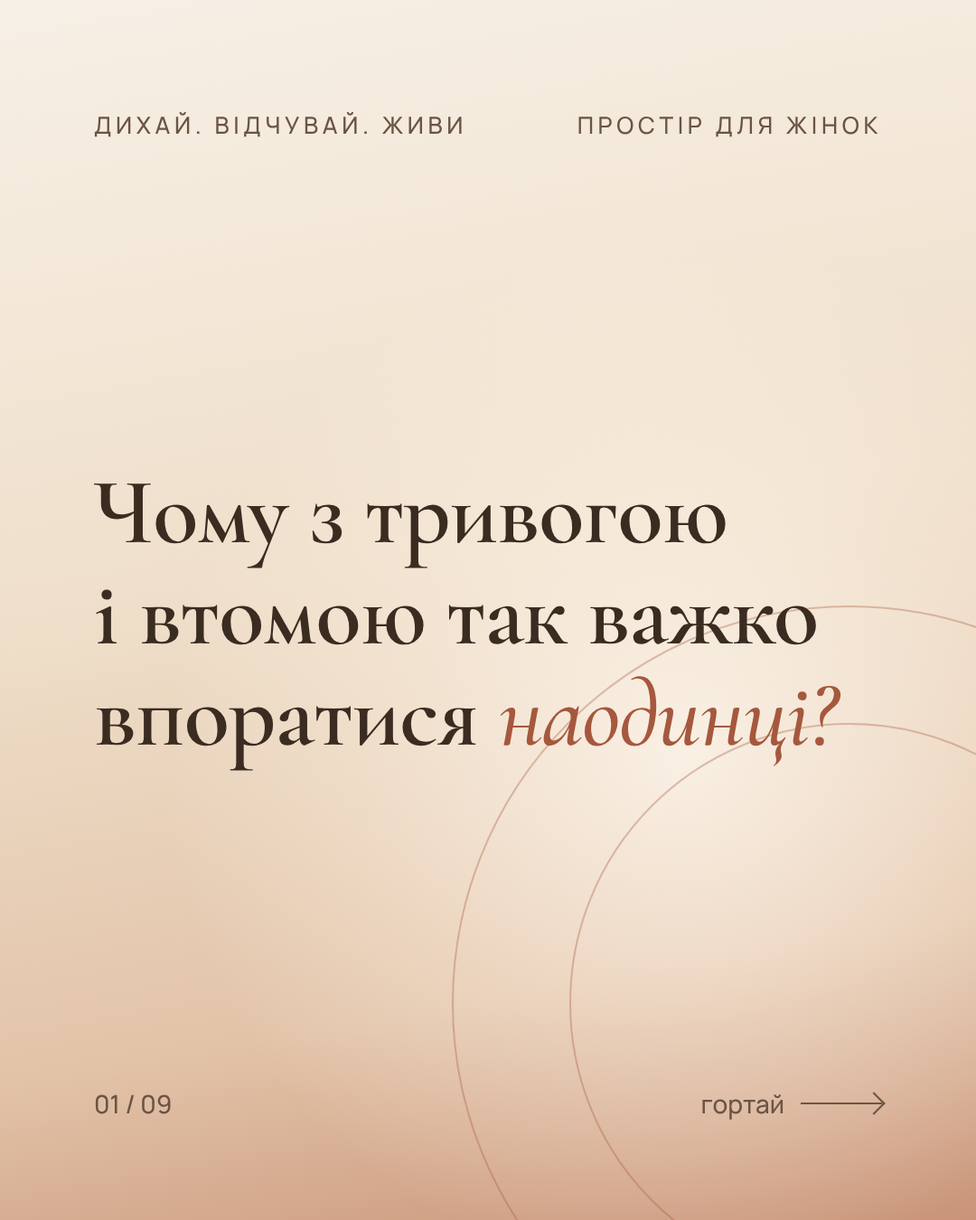
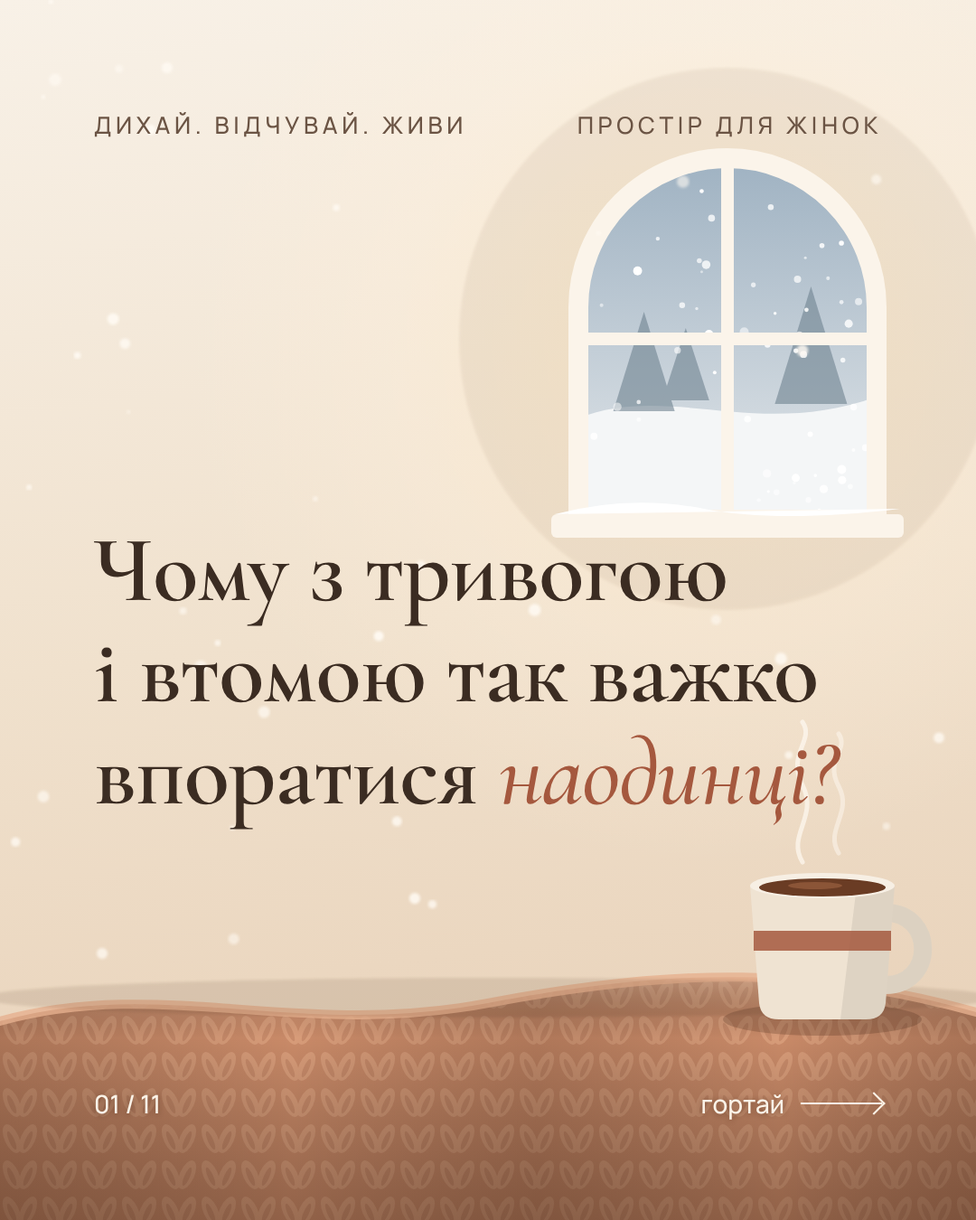
Carousel: cozy illustrated backgrounds, add 'how we work' and methods slides (11 slides)
Claude-Session: https://claude.ai/code/session_01Ybrem4L8V91CpdmvQtLtua

diff --git a/reels/carousel/carousel.html b/reels/carousel/carousel.html
@@ -2,145 +2,173 @@
 <html lang="uk"><head><meta charset="utf-8">
 <link href="https://fonts.googleapis.com/css2?family=Cormorant+Garamond:ital,wght@0,500;0,600;1,500&family=Manrope:wght@400;500;600&display=swap&subset=cyrillic" rel="stylesheet">
 <style>
-:root{--ink:#3b2c22;--soft:#6b5444;--terra:#a5583e;--milk:#f7f0e6;--olive:#5f6140}
+:root{--ink:#3b2c22;--soft:#6b5444;--terra:#a5583e;--milk:#f7f0e6}
 *{box-sizing:border-box;margin:0;padding:0}
 body{background:#ccc;font-family:Manrope,sans-serif;color:var(--ink)}
 .s{width:1080px;height:1350px;position:relative;overflow:hidden;margin-bottom:20px;
-  background:linear-gradient(170deg,#f7f0e6 0%,#efdfca 45%,#e2c3a8 78%,#c99478 100%);
+  background:linear-gradient(172deg,#f8f1e7 0%,#f0e1cd 50%,#e6cdb3 100%);
   padding:120px 104px 110px;display:flex;flex-direction:column}
 .s.dark{background:linear-gradient(165deg,#6a4a3a 0%,#4a3428 55%,#33241a 100%);color:var(--milk)}
-.s::before{content:"";position:absolute;width:1200px;height:1200px;border-radius:50%;
-  left:var(--cx,50%);top:var(--cy,40%);transform:translate(-50%,-50%);
-  background:radial-gradient(circle,rgba(255,250,242,.75) 0%,rgba(255,247,236,.3) 40%,rgba(255,245,232,0) 68%)}
-.s.dark::before{background:radial-gradient(circle,rgba(224,168,110,.22) 0%,rgba(224,168,110,0) 62%)}
-.ring{position:absolute;border:2px solid rgba(165,88,62,.35);border-radius:50%;pointer-events:none}
-.dark .ring{border-color:rgba(241,220,198,.25)}
-.s>*:not(.ring){position:relative;z-index:1}
-.ring{z-index:0}
+.glow{position:absolute;width:1200px;height:1200px;border-radius:50%;transform:translate(-50%,-50%);
+  background:radial-gradient(circle,rgba(255,236,205,.8) 0%,rgba(255,240,220,.3) 40%,rgba(255,245,232,0) 68%)}
+.dark .glow{background:radial-gradient(circle,rgba(240,170,100,.28) 0%,rgba(224,168,110,0) 62%)}
+.layer{position:absolute;inset:0;pointer-events:none}
+.top,.body,.bot{position:relative;z-index:5}
 .top{display:flex;justify-content:space-between;font-size:26px;letter-spacing:.18em;text-transform:uppercase;color:var(--soft);font-weight:500}
 .dark .top{color:#dcb79c}
 .body{flex:1;display:flex;flex-direction:column;justify-content:center}
 .serif{font-family:"Cormorant Garamond",serif;font-weight:600;line-height:1.08;letter-spacing:-.01em}
-h1{font-size:104px}
-h2{font-size:84px}
+h1{font-size:104px} h2{font-size:84px}
 em{font-style:italic;font-weight:500;color:var(--terra)}
 .dark em{color:#e0a86e}
-p{font-size:40px;line-height:1.45;color:var(--soft);font-weight:400}
+p{font-size:40px;line-height:1.45;color:var(--soft)}
 .dark p{color:#efdfca}
-.num{font-family:"Cormorant Garamond",serif;font-size:200px;line-height:1;color:var(--terra);font-weight:500;font-style:italic;opacity:.85;margin-bottom:24px}
-.bot{display:flex;justify-content:space-between;align-items:center;font-size:28px;color:var(--soft);font-weight:500}
-.dark .bot{color:#dcb79c}
+.num{font-family:"Cormorant Garamond",serif;font-size:170px;line-height:1;color:var(--terra);font-weight:500;font-style:italic;opacity:.85;margin-bottom:18px}
+.bot{display:flex;justify-content:space-between;align-items:center;font-size:28px;font-weight:500;color:#fbf3e8;text-shadow:0 1px 6px rgba(60,30,15,.45)}
 .arrow{display:flex;align-items:center;gap:18px}
 .arrow i{display:block;width:90px;height:2px;background:currentColor;position:relative}
 .arrow i::after{content:"";position:absolute;right:0;top:-8px;width:16px;height:16px;border-top:2px solid currentColor;border-right:2px solid currentColor;transform:rotate(45deg)}
-.list{list-style:none;margin-top:56px}
-.list li{display:flex;justify-content:space-between;align-items:baseline;gap:30px;padding:30px 0;border-top:1.5px solid rgba(59,44,34,.2);font-size:38px}
+.list{list-style:none;margin-top:44px}
+.list li{display:flex;justify-content:space-between;align-items:baseline;gap:30px;padding:26px 0;border-top:1.5px solid rgba(59,44,34,.2);font-size:38px}
 .list li:last-child{border-bottom:1.5px solid rgba(59,44,34,.2)}
-.list b{font-weight:600}
-.list span{color:var(--soft);text-align:right}
-.price{font-family:"Cormorant Garamond",serif;font-size:64px;font-weight:600;color:var(--terra)}
-.date{display:flex;gap:40px;align-items:center;margin:60px 0 50px}
+.list b{font-weight:600} .list span{color:var(--soft);text-align:right}
+.price{font-family:"Cormorant Garamond",serif;font-size:60px;font-weight:600;color:var(--terra)}
+.methods{list-style:none;margin-top:44px;display:flex;flex-direction:column;gap:22px}
+.methods li{font-size:40px;line-height:1.3;display:flex;gap:26px;align-items:baseline}
+.methods li::before{content:"";flex:none;width:18px;height:18px;border-radius:50%;border:2px solid var(--terra);transform:translateY(-4px)}
+.date{display:flex;gap:40px;align-items:center;margin:48px 0 40px}
 .date .d{font-family:"Cormorant Garamond",serif;font-size:220px;line-height:.85;color:#e0a86e;font-weight:500}
 .date .m{font-size:40px;line-height:1.4;color:#f1dcc6}
-.btn{align-self:flex-start;margin-top:56px;padding:30px 52px;border-radius:100px;background:#f1dcc6;color:#3b2c22;font-size:34px;font-weight:600}
-.small{font-size:30px;margin-top:28px;opacity:.8}
-.line{width:120px;height:2px;background:var(--terra);margin:48px 0}
+.btn{align-self:flex-start;margin-top:48px;padding:30px 52px;border-radius:100px;background:#f1dcc6;color:#3b2c22;font-size:34px;font-weight:600}
+.line{width:120px;height:2px;background:var(--terra);margin:40px 0}
 .dark .line{background:#e0a86e}
+.pb{padding-bottom:210px}
 </style></head><body>
 
 <!-- 1 -->
-<section class="s" style="--cx:70%;--cy:62%">
-  <div class="ring" style="width:880px;height:880px;right:-300px;bottom:-200px"></div>
-  <div class="ring" style="width:620px;height:620px;right:-170px;bottom:-70px"></div>
+<section class="s" data-snow="40" data-blanket data-mug="830">
+  <div class="glow" style="left:72%;top:28%"></div>
+  <div class="layer" data-window="640,175,330,400"></div>
   <div class="top"><span>Дихай. Відчувай. Живи</span><span>простір для жінок</span></div>
-  <div class="body">
+  <div class="body pb" style="justify-content:flex-end;padding-bottom:290px">
     <h1 class="serif">Чому з тривогою і&nbsp;втомою так важко впоратися <em>наодинці?</em></h1>
   </div>
-  <div class="bot"><span>01 / 09</span><span class="arrow">гортай <i></i></span></div>
+  <div class="bot"><span>01 / 11</span><span class="arrow">гортай <i></i></span></div>
 </section>
 
 <!-- 2 -->
-<section class="s" style="--cx:30%;--cy:45%">
-  <div class="ring" style="width:700px;height:700px;left:-330px;top:180px"></div>
+<section class="s" data-snow="60" data-blanket data-candle="820">
+  <div class="glow" style="left:25%;top:45%"></div>
   <div class="top"><span>Замкнене коло</span><span></span></div>
-  <div class="body">
+  <div class="body pb">
     <h2 class="serif">Бо коли ти одна&nbsp;— ти варишся у&nbsp;власних думках, як <em>у&nbsp;замкненому колі.</em></h2>
     <div class="line"></div>
     <p>Навіть якщо йдеш до фахівця раз на&nbsp;тиждень, решту часу все одно тримаєш усе&nbsp;сама.</p>
   </div>
-  <div class="bot"><span>02 / 09</span><span class="arrow"><i></i></span></div>
+  <div class="bot"><span>02 / 11</span><span class="arrow"><i></i></span></div>
 </section>
 
 <!-- 3 -->
-<section class="s dark" style="--cx:50%;--cy:50%">
-  <div class="ring" style="width:1000px;height:1000px;left:40px;top:175px"></div>
-  <div class="ring" style="width:760px;height:760px;left:160px;top:295px"></div>
+<section class="s dark" data-snow="50" data-circle>
+  <div class="glow" style="left:50%;top:92%"></div>
   <div class="top"><span>Тому ми з колегою створюємо</span><span></span></div>
-  <div class="body">
+  <div class="body" style="justify-content:flex-start;padding-top:70px">
     <h1 class="serif">Дихай.<br>Відчувай.<br><em>Живи.</em></h1>
-    <p style="margin-top:44px;color:#f1dcc6;font-weight:500">Онлайн-група підтримки, відновлення, самопізнання та&nbsp;розвитку для&nbsp;жінок</p>
+    <p style="margin-top:40px;color:#f1dcc6;font-weight:500">Онлайн-група підтримки, відновлення, самопізнання та&nbsp;розвитку для&nbsp;жінок</p>
     <div class="line"></div>
     <p>Не лекції і не «розбір польотів», а&nbsp;живий простір, де працює <b style="color:#f1dcc6;font-weight:600">сила кола</b>.</p>
   </div>
-  <div class="bot"><span>03 / 09</span><span class="arrow">що дає група <i></i></span></div>
+  <div class="bot"><span>03 / 11</span><span class="arrow">що дає група <i></i></span></div>
 </section>
 
 <!-- 4 -->
-<section class="s" style="--cx:75%;--cy:30%">
-  <div class="ring" style="width:520px;height:520px;right:-160px;top:-120px"></div>
+<section class="s" data-snow="45" data-blanket data-mug="780">
+  <div class="glow" style="left:75%;top:30%"></div>
   <div class="top"><span>Що дає група</span><span>1 / 4</span></div>
-  <div class="body">
+  <div class="body pb">
     <div class="num">01</div>
     <h2 class="serif">Відчуття <em>«я&nbsp;не&nbsp;одна»</em></h2>
     <div class="line"></div>
     <p>Інші жінки стають твоїм живим дзеркалом. Ти&nbsp;слухаєш чужу історію&nbsp;— і&nbsp;раптом знаходиш відповідь на&nbsp;своє питання, яке боліло місяцями.</p>
   </div>
-  <div class="bot"><span>04 / 09</span><span class="arrow"><i></i></span></div>
+  <div class="bot"><span>04 / 11</span><span class="arrow"><i></i></span></div>
 </section>
 
 <!-- 5 -->
-<section class="s" style="--cx:25%;--cy:32%">
-  <div class="ring" style="width:520px;height:520px;left:-160px;top:-120px"></div>
+<section class="s" data-snow="45" data-blanket data-candle="160">
+  <div class="glow" style="left:25%;top:32%"></div>
   <div class="top"><span>Що дає група</span><span>2 / 4</span></div>
-  <div class="body">
+  <div class="body pb">
     <div class="num">02</div>
     <h2 class="serif">Спільна <em>енергія</em></h2>
     <div class="line"></div>
     <p>Коли власного ресурсу на нулі, група буквально дає опору. У&nbsp;колі легше дихати, глибше розслабляється тіло, і&nbsp;з’являються сили там, де їх не&nbsp;було.</p>
   </div>
-  <div class="bot"><span>05 / 09</span><span class="arrow"><i></i></span></div>
+  <div class="bot"><span>05 / 11</span><span class="arrow"><i></i></span></div>
 </section>
 
 <!-- 6 -->
-<section class="s" style="--cx:75%;--cy:30%">
-  <div class="ring" style="width:520px;height:520px;right:-160px;top:-120px"></div>
+<section class="s" data-snow="45" data-blanket data-mug="800">
+  <div class="glow" style="left:75%;top:30%"></div>
   <div class="top"><span>Що дає група</span><span>3 / 4</span></div>
-  <div class="body">
+  <div class="body pb">
     <div class="num">03</div>
     <h2 class="serif">Дозвіл спробувати <em>нове</em></h2>
     <div class="line"></div>
     <p>Вдома чи на роботі ми звикли бути зручними і стриманими. Тут можна вперше наважитися зазвучати на&nbsp;повний голос, випустити напругу через тіло, проявитися без страху «а&nbsp;що подумають».</p>
   </div>
-  <div class="bot"><span>06 / 09</span><span class="arrow"><i></i></span></div>
+  <div class="bot"><span>06 / 11</span><span class="arrow"><i></i></span></div>
 </section>
 
 <!-- 7 -->
-<section class="s" style="--cx:25%;--cy:32%">
-  <div class="ring" style="width:520px;height:520px;left:-160px;top:-120px"></div>
+<section class="s" data-snow="45" data-blanket data-mugs="700">
+  <div class="glow" style="left:25%;top:32%"></div>
   <div class="top"><span>Що дає група</span><span>4 / 4</span></div>
-  <div class="body">
+  <div class="body pb">
     <div class="num">04</div>
     <h2 class="serif">Теплий погляд <em>з&nbsp;боку</em></h2>
     <div class="line"></div>
     <p>Досвід різних жінок&nbsp;— в&nbsp;Україні та в&nbsp;еміграції. Без критики й&nbsp;непроханих порад «як треба». Ми, дві ведучі, бережно стежимо за безпекою кожного слова в&nbsp;просторі.</p>
   </div>
-  <div class="bot"><span>07 / 09</span><span class="arrow"><i></i></span></div>
+  <div class="bot"><span>07 / 11</span><span class="arrow"><i></i></span></div>
 </section>
 
 <!-- 8 -->
-<section class="s" style="--cx:50%;--cy:20%">
+<section class="s" data-snow="45" data-blanket data-candle="880">
+  <div class="glow" style="left:70%;top:30%"></div>
+  <div class="top"><span>Як ми працюємо</span><span></span></div>
+  <div class="body pb">
+    <h2 class="serif" style="font-size:76px">Саме <em>ви і ваші почуття</em> формують зміст наших зустрічей</h2>
+    <div class="line"></div>
+    <p>Питання, труднощі, внутрішні конфлікти, страхи, сумніви, стосунки та життєві ситуації&nbsp;— те, що хвилює тут і&nbsp;зараз.</p>
+    <p style="margin-top:28px;color:var(--ink);font-weight:500">Те, що болить, турбує або потребує розуміння,&nbsp;— стає темою нашої спільної роботи.</p>
+  </div>
+  <div class="bot"><span>08 / 11</span><span class="arrow"><i></i></span></div>
+</section>
+
+<!-- 9 -->
+<section class="s" data-snow="45" data-blanket data-mug="810">
+  <div class="glow" style="left:30%;top:30%"></div>
+  <div class="top"><span>Як ми працюємо</span><span></span></div>
+  <div class="body pb">
+    <h2 class="serif">На вас <em>чекають</em></h2>
+    <ul class="methods">
+      <li>групова робота</li>
+      <li>психологічні сесії</li>
+      <li>розстановки</li>
+      <li>арт-терапія</li>
+      <li>метафоричні асоціативні карти</li>
+      <li>тілесні вправи та робота з&nbsp;тілом</li>
+    </ul>
+  </div>
+  <div class="bot"><span>09 / 11</span><span class="arrow"><i></i></span></div>
+</section>
+
+<!-- 10 -->
+<section class="s" data-snow="40" data-blanket>
+  <div class="glow" style="left:50%;top:20%"></div>
   <div class="top"><span>Як усе влаштовано</span><span></span></div>
-  <div class="body">
+  <div class="body pb">
     <h2 class="serif">Формат <em>групи</em></h2>
     <ul class="list">
       <li><b>Зустрічі</b><span>2 рази на місяць</span></li>
@@ -150,21 +178,149 @@ p{font-size:40px;line-height:1.45;color:var(--soft);font-weight:400}
       <li><b>Місяць</b><span class="price">3 000 грн / 60 €</span></li>
     </ul>
   </div>
-  <div class="bot"><span>08 / 09</span><span class="arrow"><i></i></span></div>
+  <div class="bot"><span>10 / 11</span><span class="arrow"><i></i></span></div>
 </section>
 
-<!-- 9 -->
-<section class="s dark" style="--cx:60%;--cy:45%">
-  <div class="ring" style="width:900px;height:900px;right:-260px;top:100px"></div>
-  <div class="ring" style="width:640px;height:640px;right:-130px;top:230px"></div>
+<!-- 11 -->
+<section class="s dark" data-snow="70" data-blanket="dark" data-mugs="640">
+  <div class="glow" style="left:70%;top:30%"></div>
   <div class="top"><span>Дихай. Відчувай. Живи</span><span>запрошення</span></div>
-  <div class="body">
+  <div class="body pb">
     <h2 class="serif">Відкритий ефір <em>знайомства</em></h2>
     <div class="date"><div class="d">18</div><div class="m">грудня<br>19:00 за Києвом<br>Zoom</div></div>
     <p>Приходь, щоб відчути енергію кола на&nbsp;собі.</p>
     <div class="btn">Напиши «КОЛО» в дірект</div>
-    <p class="small">— і я надішлю посилання на ефір</p>
   </div>
-  <div class="bot"><span>09 / 09</span><span>збережи, щоб не загубити</span></div>
+  <div class="bot"><span>11 / 11</span><span>збережи, щоб не загубити</span></div>
 </section>
+
+<script>
+let seed=7;const rnd=()=>{seed=(seed*16807)%2147483647;return (seed-1)/2147483646};
+const W=1080,H=1350,BT=1110; // blanket top
+const NS='http://www.w3.org/2000/svg';
+function svg(inner,z=1){const d=document.createElement('div');d.className='layer';d.style.zIndex=z;
+  d.innerHTML=`<svg width="${W}" height="${H}" viewBox="0 0 ${W} ${H}" xmlns="${NS}">${inner}</svg>`;return d}
+
+function snow(n,dark){let o='';for(let i=0;i<n;i++){const r=2+rnd()*5,x=rnd()*W,y=rnd()*H*.85,a=dark?.25+rnd()*.35:.55+rnd()*.4;
+  o+=`<circle cx="${x}" cy="${y}" r="${r}" fill="${dark?'#fff3e4':'#fffaf3'}" opacity="${a}" filter="url(#bl)"/>`}
+  return `<defs><filter id="bl"><feGaussianBlur stdDeviation="1.4"/></filter></defs>${o}`}
+
+function blanket(dark){
+  const base=dark?'#7a4a36':'#c98a68', st=dark?'#8d5842':'#d89c79', sh=dark?'#5a3526':'#a96b4c';
+  return `<defs>
+   <pattern id="knit" width="44" height="40" patternUnits="userSpaceOnUse">
+     <rect width="44" height="40" fill="${base}"/>
+     <ellipse cx="13" cy="20" rx="8" ry="17" transform="rotate(-24 13 20)" fill="${st}"/>
+     <ellipse cx="31" cy="20" rx="8" ry="17" transform="rotate(24 31 20)" fill="${st}"/>
+     <ellipse cx="13" cy="22" rx="3" ry="11" transform="rotate(-24 13 22)" fill="${sh}" opacity=".35"/>
+     <ellipse cx="31" cy="22" rx="3" ry="11" transform="rotate(24 31 22)" fill="${sh}" opacity=".35"/>
+   </pattern>
+   <linearGradient id="fold" x1="0" y1="0" x2="0" y2="1">
+     <stop offset="0" stop-color="#fff2e0" stop-opacity=".28"/><stop offset=".25" stop-color="#000" stop-opacity="0"/>
+     <stop offset="1" stop-color="#2a160c" stop-opacity=".35"/></linearGradient>
+   <linearGradient id="foldx" x1="0" x2="1">
+     <stop offset="0" stop-color="#2a160c" stop-opacity=".18"/><stop offset=".3" stop-color="#000" stop-opacity="0"/>
+     <stop offset=".55" stop-color="#2a160c" stop-opacity=".16"/><stop offset=".8" stop-color="#000" stop-opacity="0"/>
+     <stop offset="1" stop-color="#2a160c" stop-opacity=".2"/></linearGradient>
+  </defs>
+  <path id="bp" d="M0 ${BT+20} C 180 ${BT-30}, 330 ${BT+40}, 540 ${BT} S 900 ${BT-40}, 1080 ${BT+10} L1080 1350 L0 1350Z" fill="url(#knit)"/>
+  <path d="M0 ${BT+20} C 180 ${BT-30}, 330 ${BT+40}, 540 ${BT} S 900 ${BT-40}, 1080 ${BT+10} L1080 1350 L0 1350Z" fill="url(#fold)"/>
+  <path d="M0 ${BT+20} C 180 ${BT-30}, 330 ${BT+40}, 540 ${BT} S 900 ${BT-40}, 1080 ${BT+10} L1080 1350 L0 1350Z" fill="url(#foldx)"/>
+  <path d="M0 ${BT+20} C 180 ${BT-30}, 330 ${BT+40}, 540 ${BT} S 900 ${BT-40}, 1080 ${BT+10}" fill="none" stroke="${dark?'#9a6650':'#e6b08f'}" stroke-width="10" stroke-linecap="round" opacity=".8"/>
+  <path d="M0 ${BT+12} C 180 ${BT-38}, 330 ${BT+32}, 540 ${BT-8} S 900 ${BT-48}, 1080 ${BT+2} L1080 ${BT-60} L0 ${BT-60}Z" fill="none"/>
+  <ellipse cx="540" cy="${BT-6}" rx="560" ry="22" fill="#3b2010" opacity=".10" filter="url(#bl)"/>`}
+
+function steam(x,y){return `<g fill="none" stroke="#fffaf2" stroke-width="5" stroke-linecap="round" opacity=".7">
+  <path d="M${x-22} ${y} c -18 -30, 18 -50, 0 -85 s 14 -50, 0 -70"/>
+  <path d="M${x+18} ${y-10} c -16 -26, 16 -44, 0 -74 s 12 -40, 0 -58" opacity=".7"/></g>`}
+
+function mug(x,color='#efe3d2',band='#a5583e',scale=1){const y=BT-150*scale;
+  return `<g transform="translate(${x} ${y}) scale(${scale})">
+   <ellipse cx="80" cy="168" rx="110" ry="18" fill="#3b2010" opacity=".22"/>
+   <path d="M150 50 c 55 0, 55 80, 0 80" fill="none" stroke="${color}" stroke-width="20"/>
+   <path d="M150 50 c 55 0, 55 80, 0 80" fill="none" stroke="#000" stroke-opacity=".08" stroke-width="20"/>
+   <path d="M0 20 L160 20 L150 150 Q148 168 128 168 L32 168 Q12 168 10 150 Z" fill="${color}"/>
+   <path d="M0 20 L160 20 L150 150 Q148 168 128 168 L100 168 L118 20Z" fill="#000" opacity=".07"/>
+   <rect x="4" y="70" width="152" height="22" fill="${band}" opacity=".85"/>
+   <ellipse cx="80" cy="20" rx="80" ry="14" fill="#f7efe4"/>
+   <ellipse cx="80" cy="22" rx="70" ry="10" fill="#6a3c24"/>
+   <ellipse cx="72" cy="20" rx="30" ry="4" fill="#9a6040" opacity=".7"/>
+   ${steam(80,-6)}</g>`}
+
+function candle(x){const y=BT-190;return `<g transform="translate(${x} ${y})">
+   <circle cx="50" cy="0" r="120" fill="url(#cg)"/>
+   <defs><radialGradient id="cg"><stop offset="0" stop-color="#ffd38a" stop-opacity=".7"/><stop offset="1" stop-color="#ffd38a" stop-opacity="0"/></radialGradient></defs>
+   <ellipse cx="50" cy="196" rx="90" ry="14" fill="#3b2010" opacity=".22"/>
+   <path d="M0 40 L100 40 L100 190 Q50 200 0 190Z" fill="#f6ead8"/>
+   <path d="M70 40 L100 40 L100 190 Q85 194 70 194Z" fill="#000" opacity=".06"/>
+   <ellipse cx="50" cy="40" rx="50" ry="10" fill="#fff6ea"/>
+   <rect x="47" y="14" width="5" height="24" fill="#4a3428"/>
+   <path d="M50 -38 C 66 -12, 64 10, 50 16 C 36 10, 34 -12, 50 -38Z" fill="#ffb347"/>
+   <path d="M50 -18 C 58 -4, 57 8, 50 12 C 43 8, 42 -4, 50 -18Z" fill="#fff0c0"/></g>`}
+
+function windowEl(x,y,w,h,dark){const r=w/2,fr=dark?'#c9a68c':'#fbf4ea';
+  let flakes='';for(let i=0;i<70;i++)flakes+=`<circle cx="${x+rnd()*w}" cy="${y+rnd()*h}" r="${1.5+rnd()*3.5}" fill="#fff" opacity="${.5+rnd()*.5}"/>`;
+  const arch=`M${x} ${y+h} L${x} ${y+r} A${r} ${r} 0 0 1 ${x+w} ${y+r} L${x+w} ${y+h}Z`;
+  return `<defs>
+   <linearGradient id="sky${x}" x1="0" y1="0" x2="0" y2="1"><stop offset="0" stop-color="${dark?'#41505e':'#9fb2c2'}"/><stop offset="1" stop-color="${dark?'#7c8b96':'#e3e7ea'}"/></linearGradient>
+   <clipPath id="cl${x}"><path d="${arch}"/></clipPath></defs>
+   <ellipse cx="${x+w/2}" cy="${y+h/2}" rx="${w*.9}" ry="${h*.75}" fill="${dark?'#000':'#7a5a40'}" opacity=".08" filter="url(#bl)"/>
+   <g clip-path="url(#cl${x})">
+    <rect x="${x}" y="${y}" width="${w}" height="${h}" fill="url(#sky${x})"/>
+    <path d="M${x} ${y+h*.72} C ${x+w*.3} ${y+h*.62}, ${x+w*.6} ${y+h*.78}, ${x+w} ${y+h*.66} L${x+w} ${y+h} L${x} ${y+h}Z" fill="#f4f6f7"/>
+    <g fill="${dark?'#2e3a42':'#6f8290'}" opacity=".6">
+      <path d="M${x+w*.22} ${y+h*.70} l -34 0 l 34 -110 l 34 110z"/><path d="M${x+w*.36} ${y+h*.67} l -26 0 l 26 -80 l 26 80z"/>
+      <path d="M${x+w*.78} ${y+h*.68} l -40 0 l 40 -130 l 40 130z"/></g>
+    ${flakes}
+   </g>
+   <path d="${arch}" fill="none" stroke="${fr}" stroke-width="22"/>
+   <line x1="${x+w/2}" y1="${y}" x2="${x+w/2}" y2="${y+h}" stroke="${fr}" stroke-width="14"/>
+   <line x1="${x}" y1="${y+h*.5}" x2="${x+w}" y2="${y+h*.5}" stroke="${fr}" stroke-width="14"/>
+   <rect x="${x-30}" y="${y+h-6}" width="${w+60}" height="26" rx="6" fill="${fr}"/>
+   <path d="M${x-26} ${y+h-6} q ${w*.25} -22 ${w*.5} -6 t ${w*.5+52} 0 Z" fill="#ffffff"/>`}
+
+function circleOfWomen(){
+  const cols=['#c98a68','#8a8a5c','#d9a77e','#b0573b','#9c6b5a','#e0b58f','#7d5a4a'];
+  const hair=['#3b2418','#6a4028','#2b1b12','#8a5a36','#4a2e20','#5c3a28','#2e1f17'];
+  let o=`<defs><radialGradient id="fire"><stop offset="0" stop-color="#ffd38a" stop-opacity=".9"/><stop offset="1" stop-color="#ffb060" stop-opacity="0"/></radialGradient></defs>
+  <ellipse cx="540" cy="1215" rx="420" ry="140" fill="url(#fire)" opacity=".55"/>`;
+  // back row (smaller, facing us, softly lit)
+  const back=[[300,1080],[440,1050],[640,1050],[780,1080]];
+  back.forEach(([x,y],i)=>{o+=`<g opacity=".92"><path d="M${x-62} ${y+150} C ${x-60} ${y+70}, ${x+60} ${y+70}, ${x+62} ${y+150} Z" fill="${cols[i+2]}"/>
+    <ellipse cx="${x}" cy="${y+40}" rx="30" ry="36" fill="#e9c3a2"/>
+    <path d="M${x-34} ${y+44} C ${x-40} ${y-6}, ${x+40} ${y-6}, ${x+34} ${y+44} C ${x+26} ${y+16}, ${x-26} ${y+16}, ${x-34} ${y+44}Z" fill="${hair[i]}"/></g>`});
+  // candle in the middle
+  o+=`<g transform="translate(515 1150) scale(.55)"><path d="M0 40 L90 40 L90 150 Q45 158 0 150Z" fill="#f6ead8"/><ellipse cx="45" cy="40" rx="45" ry="9" fill="#fff6ea"/>
+     <path d="M45 -30 C 60 -6, 58 12, 45 18 C 32 12, 30 -6, 45 -30Z" fill="#ffb347"/><path d="M45 -10 C 52 2, 51 12, 45 15 C 39 12, 38 2, 45 -10Z" fill="#fff0c0"/></g>`;
+  // front row: backs of women, wrapped in blankets
+  const front=[[150,1200,1.15],[400,1235,1.2],[680,1235,1.2],[930,1200,1.15]];
+  front.forEach(([x,y,s],i)=>{o+=`<g transform="translate(${x} ${y}) scale(${s})">
+    <path d="M-120 160 C -118 40, -70 10, 0 10 C 70 10, 118 40, 120 160Z" fill="${cols[i]}"/>
+    <path d="M-120 160 C -118 40, -70 10, 0 10 C 70 10, 118 40, 120 160Z" fill="url(#knit)" opacity=".18"/>
+    <path d="M-60 30 C -30 18, 30 18, 60 30" stroke="#000" stroke-opacity=".12" stroke-width="10" fill="none"/>
+    <ellipse cx="0" cy="-30" rx="44" ry="50" fill="${hair[i+3]}"/>
+    <path d="M-30 -10 C -40 30, -20 40, 0 44 C 20 40, 40 30, 30 -10Z" fill="${hair[i+3]}"/>
+    <ellipse cx="-12" cy="-52" rx="16" ry="10" fill="#fff" opacity=".07"/></g>`});
+  return blanketDefsOnly()+o}
+function blanketDefsOnly(){return `<defs><pattern id="knit" width="44" height="40" patternUnits="userSpaceOnUse">
+  <rect width="44" height="40" fill="#000" opacity="0"/><ellipse cx="13" cy="20" rx="8" ry="17" transform="rotate(-24 13 20)" fill="#fff"/>
+  <ellipse cx="31" cy="20" rx="8" ry="17" transform="rotate(24 31 20)" fill="#fff"/></pattern></defs>`}
+
+document.querySelectorAll('section.s').forEach(s=>{
+  const dark=s.classList.contains('dark'), d=s.dataset;
+  const top=s.querySelector('.top');
+  const ins=(el)=>s.insertBefore(el,top);
+  const w=s.querySelector('[data-window]');
+  if(w){const a=w.dataset.window.split(',');w.replaceWith(svg(windowEl(+a[0],+a[1],+a[2],+a[3],a[4]==='dark'),1))}
+  if(d.snow) ins(svg(snow(+d.snow,dark),2));
+  if(d.circle!==undefined) ins(svg(circleOfWomen(),3));
+  if(d.blanket!==undefined){
+    let items='';
+    if(d.mug) items+=mug(+d.mug);
+    if(d.mugs) items+=mug(+d.mugs,'#efe3d2','#a5583e',.9)+mug(+d.mugs+190,'#c9d0c4','#5f6140',.82);
+    if(d.candle) items+=candle(+d.candle);
+    ins(svg(blanket(d.blanket==='dark')+items,3));
+  }
+});
+</script>
 </body></html>
